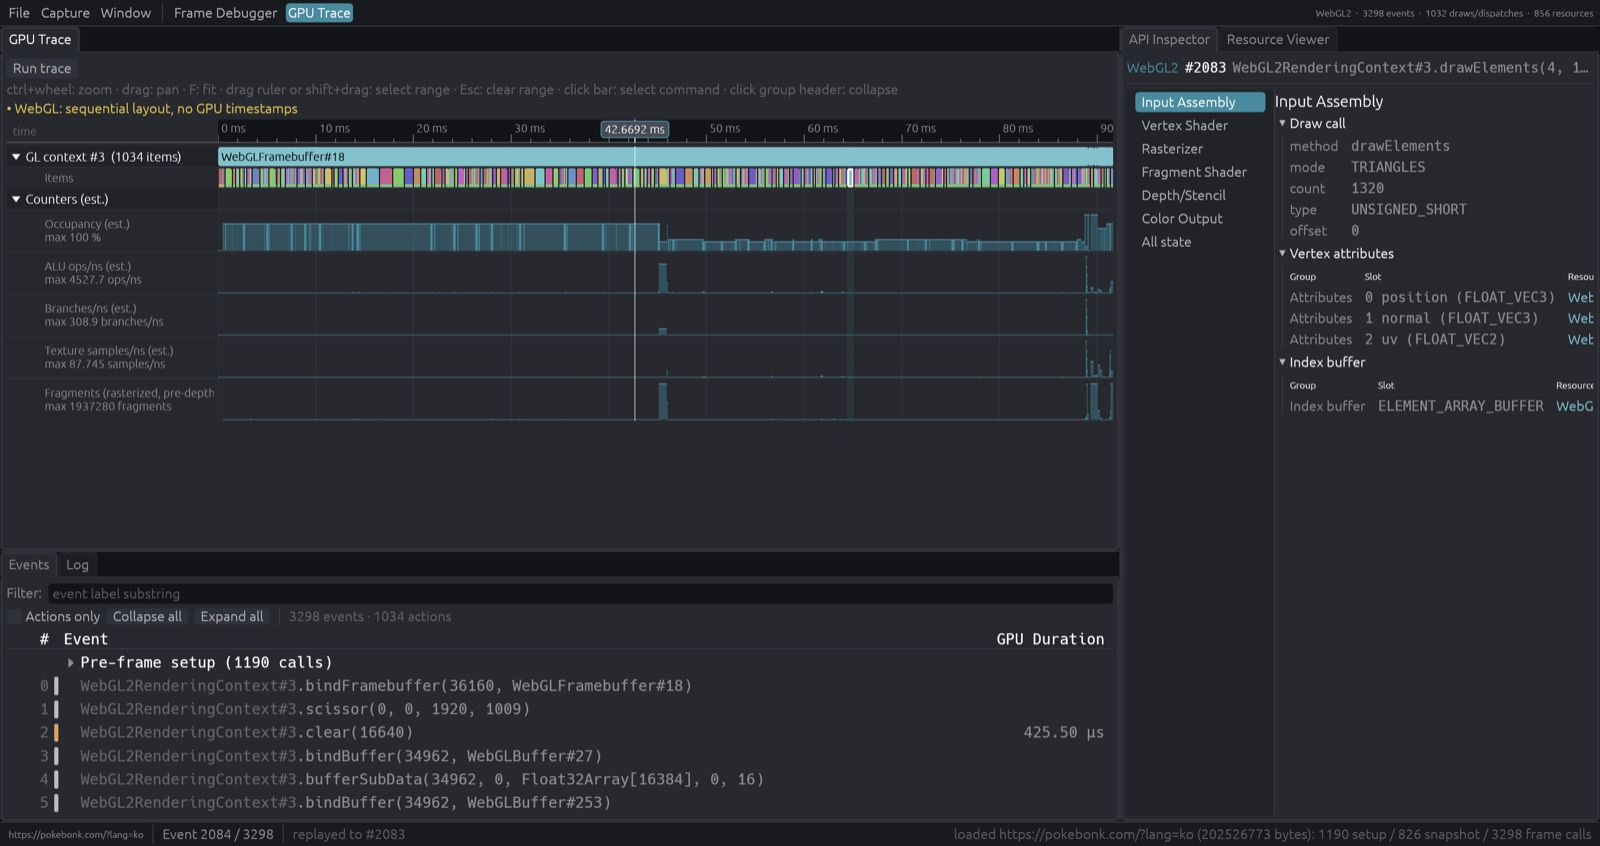
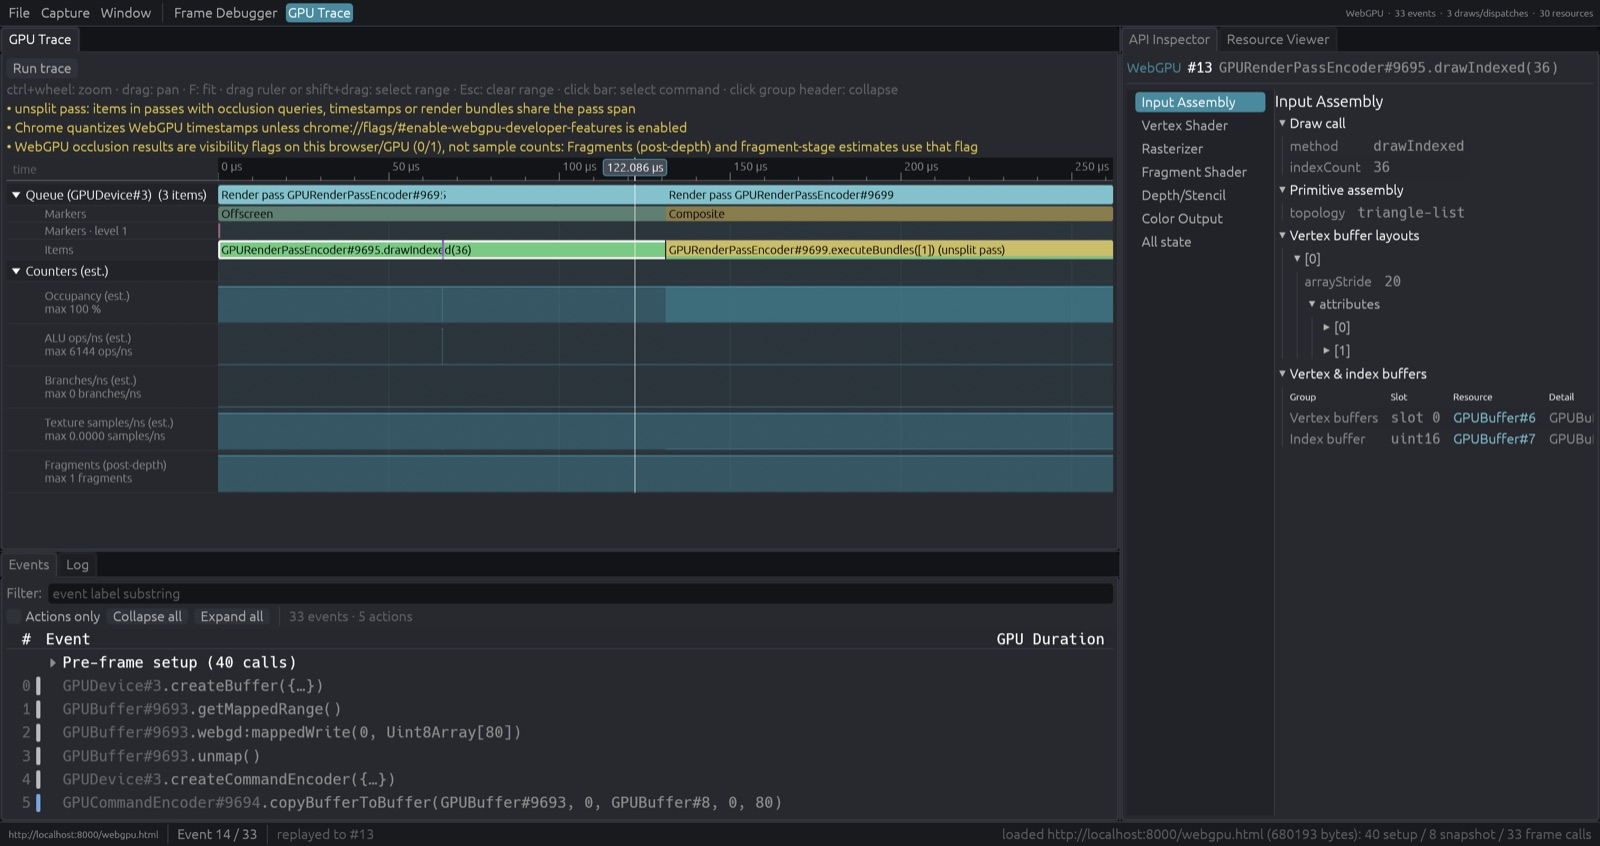
Landing page: replace third-party game screenshots with webgd test scenes; add trademark and privacy notices
All gallery images now come from tests/pages/webgpu.html. Removes pokebonk.com imagery (third-party and Pokémon IP). Adds a non-affiliation/trademark notice (Google, Khronos, W3C), discloses the all-sites permission and what captures contain, and stops imitating the Chrome Web Store 'Add to Chrome' button.

diff --git a/docs/index.html b/docs/index.html
@@ -104,7 +104,7 @@ ol.steps{grid-template-columns:repeat(4,1fr)}
 <h1>webgd</h1>
 <p class="pitch">An in-browser frame debugger and GPU trace for web pages that render with WebGL2 or WebGPU.</p>
 <div class="actions">
-<a class="btn primary" role="link" aria-disabled="true" tabindex="0" title="Chrome Web Store listing is not ready yet" aria-describedby="store-note">Add to Chrome — coming soon</a>
+<a class="btn primary" role="link" aria-disabled="true" tabindex="0" title="The extension is not published in the Chrome Web Store yet" aria-describedby="store-note">Chrome extension — coming soon</a>
 <a class="btn secondary" href="https://github.com/Snowapril/webgd">View on GitHub</a>
 <a class="btn secondary" href="report.html">Read the docs</a>
 </div>
@@ -117,7 +117,8 @@ ol.steps{grid-template-columns:repeat(4,1fr)}
 <h2 id="intro-h">What it is</h2>
 <p>webgd records every WebGL2 or WebGPU call a page makes in one frame, then lets you step through that frame command by command, inspecting render targets, pipeline state, geometry and resource contents at each point.</p>
 <p>A Chrome extension hooks the page's graphics APIs and captures one <code>requestAnimationFrame</code> frame, along with a snapshot of GPU resource contents at the start of that frame. The webgd tab, a Rust/WASM app, replays the frame on its own WebGL2 context or GPU device up to whichever command you select.</p>
-<p>It runs locally in your browser. Captures stay on your machine unless you save them as a <code>.webgd</code> file.</p>
+<p>It runs locally in your browser: webgd does not upload or send captures anywhere. Saving a capture writes a <code>.webgd</code> file to your computer.</p>
+<p>To capture any page you choose, the extension asks for access to all websites and injects its capture script into every page you open. A capture contains whatever that frame's graphics calls carried (buffers, textures, shader source), so treat saved <code>.webgd</code> files like the page content itself.</p>
 </div>
 </section>
 
@@ -137,28 +138,28 @@ ol.steps{grid-template-columns:repeat(4,1fr)}
 
 <section id="gallery" aria-labelledby="gallery-h">
 <div class="wrap">
-<h2 id="gallery-h">Captured from a real game</h2>
-<p class="gallery-lead">Sample: a three.js WebGL2 game at pokebonk.com, captured and replayed with webgd.</p>
+<h2 id="gallery-h">Screenshots</h2>
+<p class="gallery-lead">All screenshots show webgd's own WebGPU test scene (<code>tests/pages/webgpu.html</code> in the repository): a checkered cube rendered to an offscreen target, a compute pass and a composite pass, captured and replayed with webgd.</p>
 <div class="gallery">
 <figure class="wide">
-<a href="assets/pokebonk-overlay.jpg"><img src="assets/pokebonk-overlay.jpg" alt="The pokebonk.com WebGL2 game running in Chrome, with the small webgd overlay in the top-right corner reading Webgd capturable alongside FPS and frame counters"></a>
-<figcaption><strong>Page overlay.</strong> The game page once webgd has hooked its WebGL2 context.</figcaption>
+<a href="assets/overlay.jpg"><img src="assets/overlay.jpg" alt="The webgd WebGPU test page showing a checkered cube, with the small webgd overlay in the top-right corner reading Webgd capturable alongside FPS and frame counters"></a>
+<figcaption><strong>Page overlay.</strong> The test page once webgd has hooked its WebGPU device.</figcaption>
 </figure>
 <figure>
 <a href="assets/frame-debugger.jpg"><img src="assets/frame-debugger.jpg" alt="webgd Frame Debugger workspace with a draw call selected in the Events list, its render target in Render Targets and its pipeline state in the API Inspector" loading="lazy"></a>
-<figcaption><strong>Frame Debugger.</strong> A draw selected, with its render targets and pipeline state.</figcaption>
+<figcaption><strong>Frame Debugger.</strong> The cube's <code>drawIndexed</code> selected, with its render targets and pipeline state.</figcaption>
 </figure>
 <figure>
 <a href="assets/geometry.jpg"><img src="assets/geometry.jpg" alt="webgd Geometry tab showing the selected draw's mesh in a 3D viewport above a vertex attribute table" loading="lazy"></a>
-<figcaption><strong>Geometry.</strong> The draw's vertices in 3D, with the vertex table below.</figcaption>
+<figcaption><strong>Geometry.</strong> The cube after the vertex shader, in normalized device coordinates, with the output table below.</figcaption>
 </figure>
 <figure>
 <a href="assets/revisions.jpg"><img src="assets/revisions.jpg" alt="webgd Resource Viewer showing a texture's contents next to the Revisions panel listing the commands that created and wrote it" loading="lazy"></a>
-<figcaption><strong>Resource Viewer.</strong> A texture and the list of commands that created and wrote it.</figcaption>
+<figcaption><strong>Resource Viewer.</strong> The offscreen texture and its revisions: created before the frame, cleared, then drawn.</figcaption>
 </figure>
 <figure>
 <a href="assets/gpu-trace.jpg"><img src="assets/gpu-trace.jpg" alt="webgd GPU Trace workspace with a timeline of passes, markers and draw items above estimated counter graphs" loading="lazy"></a>
-<figcaption><strong>GPU Trace.</strong> Timed items with estimated counter rows on one time axis.</figcaption>
+<figcaption><strong>GPU Trace.</strong> Render passes, debug markers and draw items with estimated counter rows on one time axis.</figcaption>
 </figure>
 </div>
 </div>
@@ -192,6 +193,7 @@ ol.steps{grid-template-columns:repeat(4,1fr)}
 <li><a href="report.html">Project report</a></li>
 </ul>
 <p>webgd is open source under the MIT License.</p>
+<p>webgd is an independent project and is not affiliated with, sponsored or endorsed by Google, the Khronos Group or the W3C. Chrome is a trademark of Google LLC. WebGL and the WebGL logo are trademarks of the Khronos Group Inc.</p>
 </div>
 </footer>
 </body>
